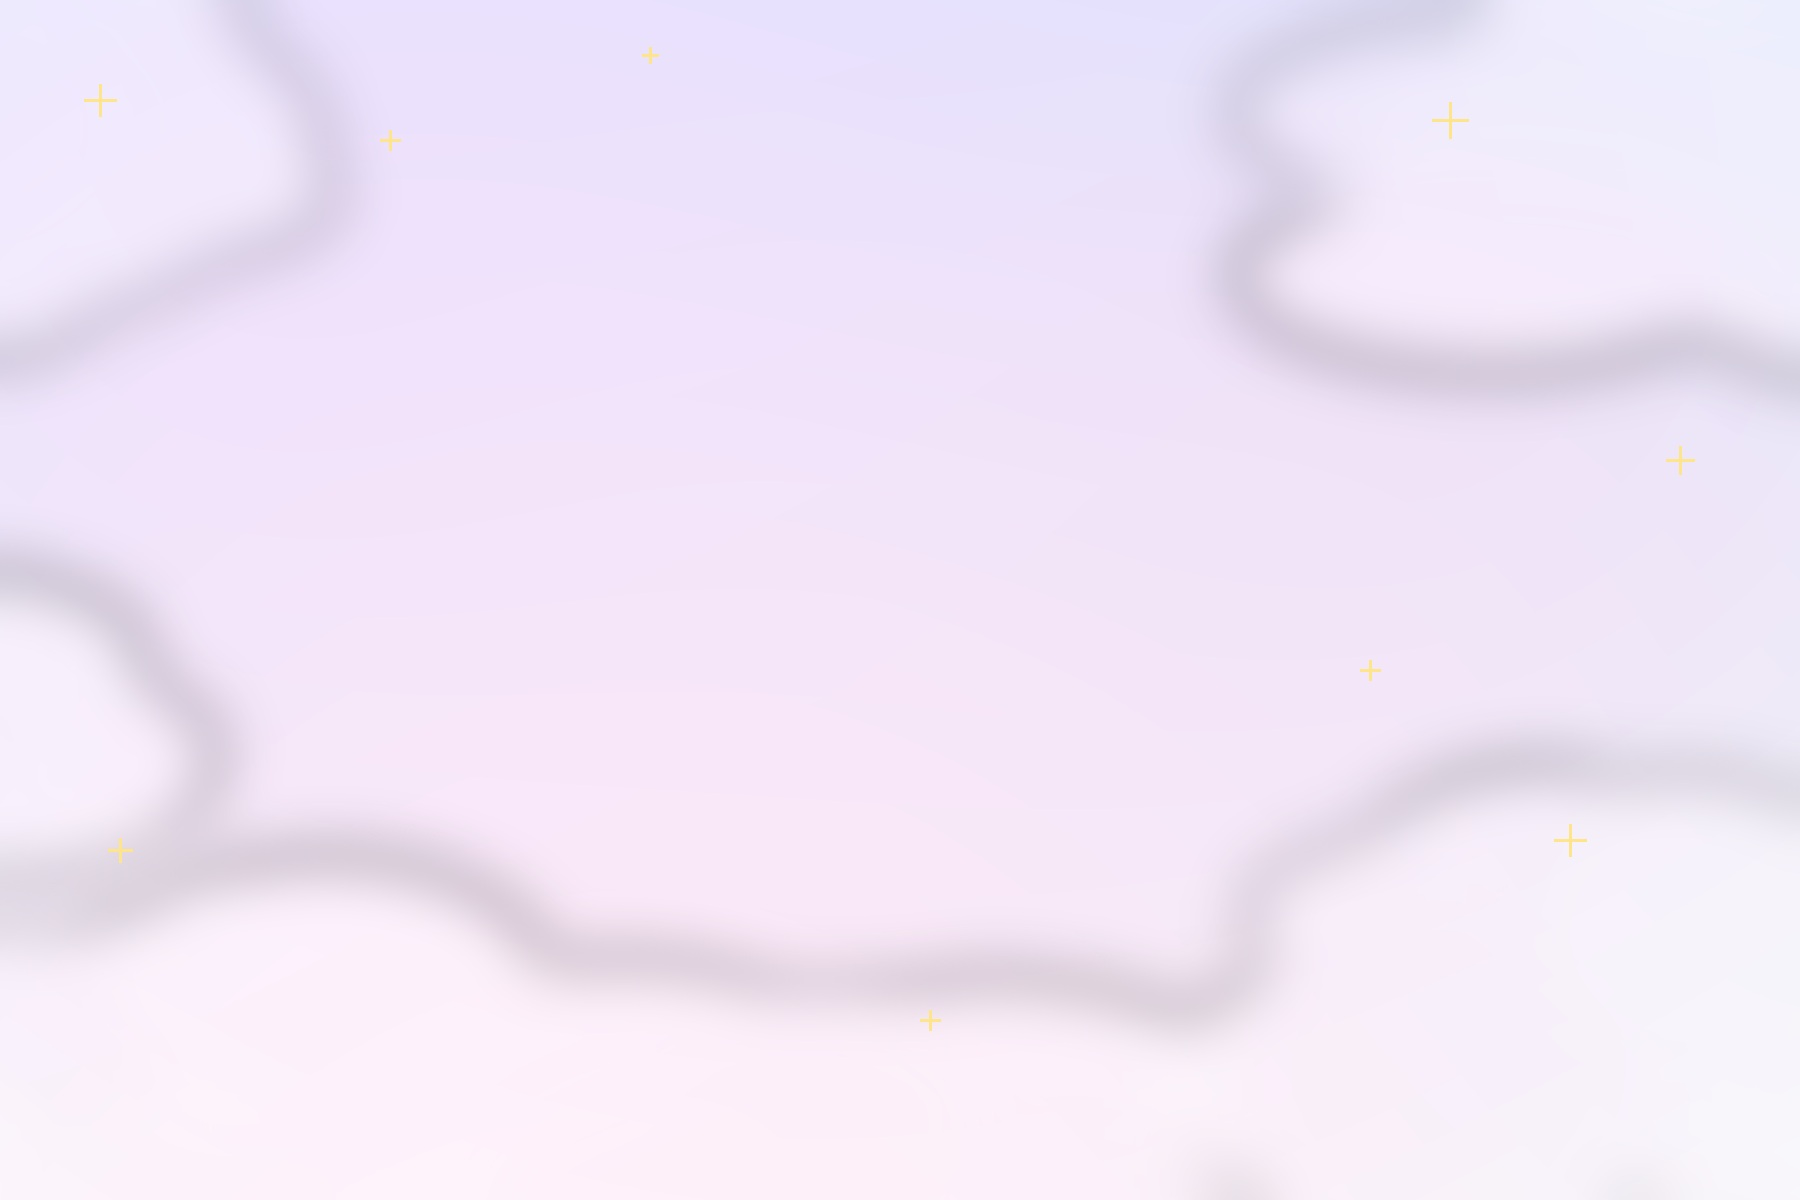
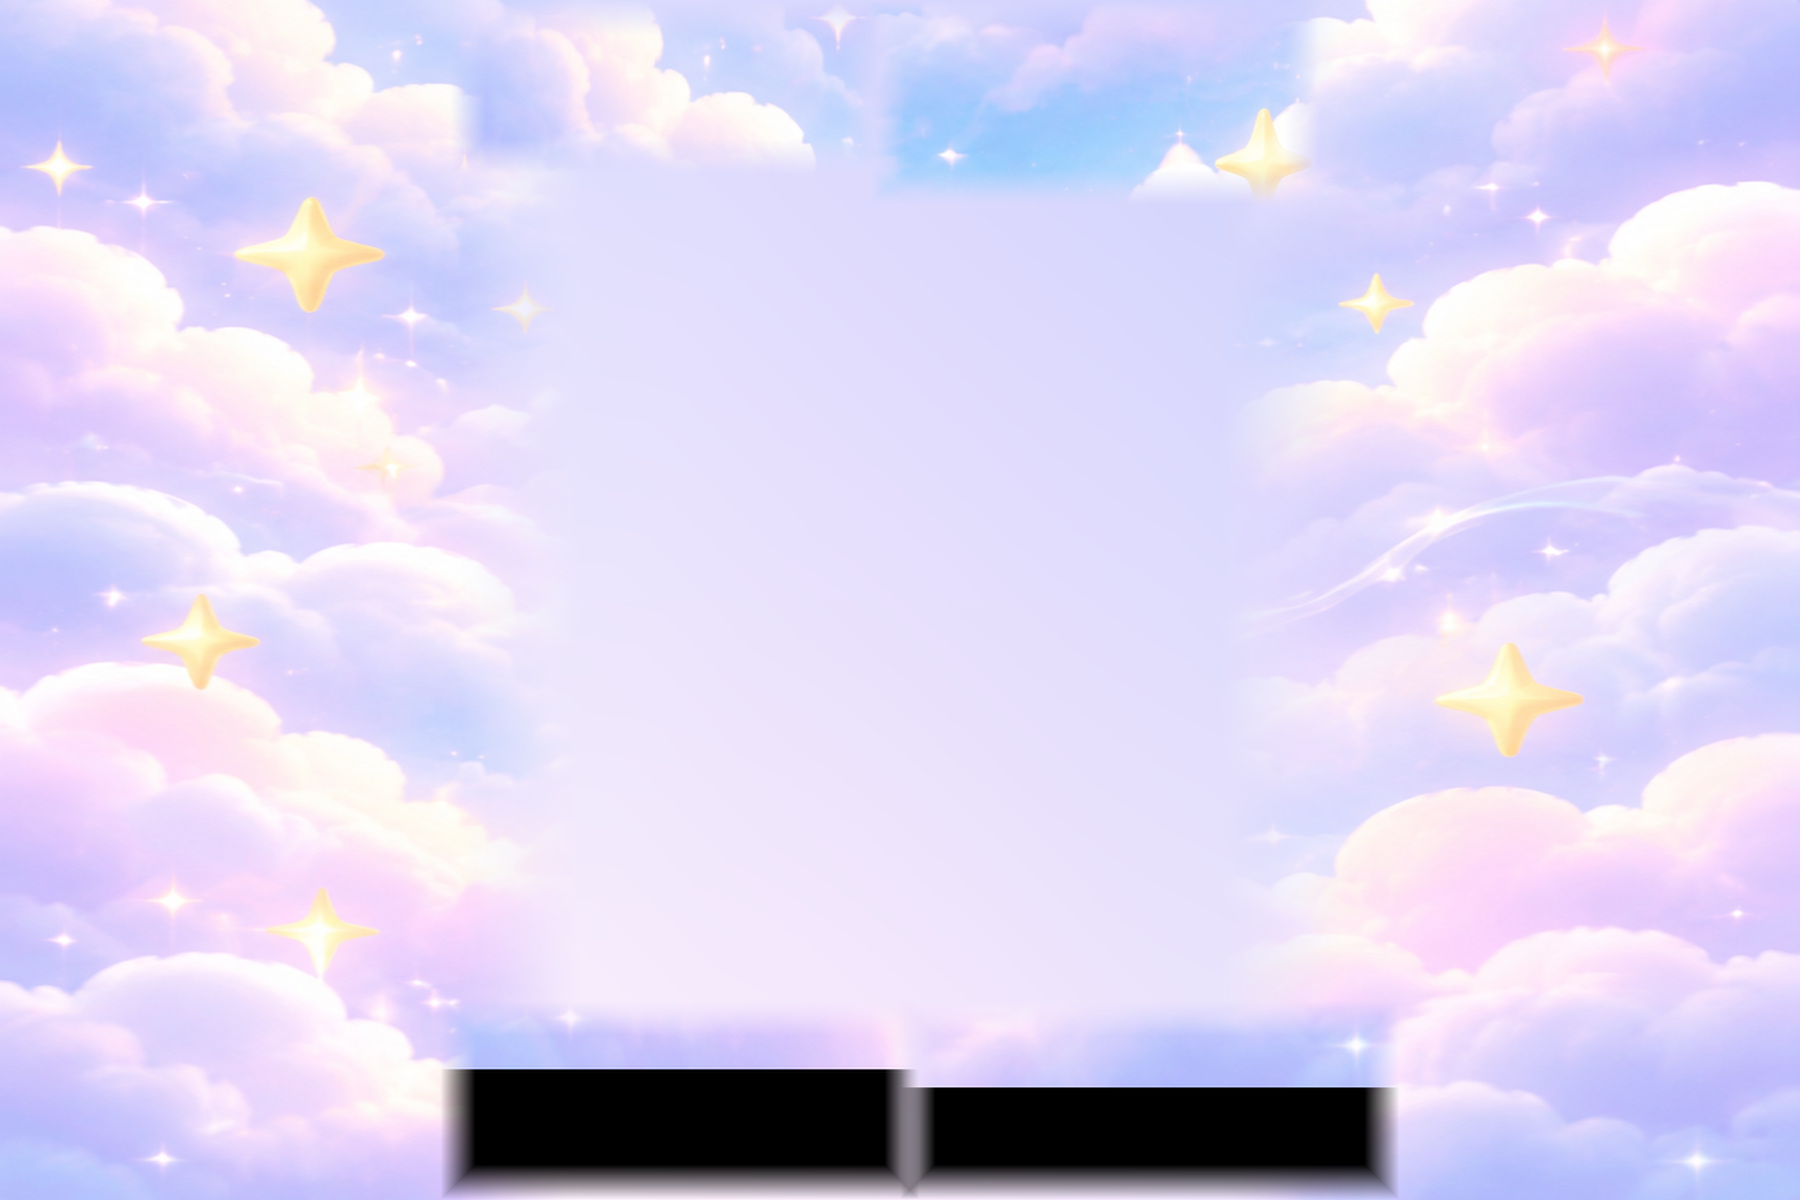
Add files via upload

diff --git a/app.py b/app.py
@@ -49,7 +49,7 @@ CSS = """
 <style>
 .stApp {
  background-image:url("__BG_CLOUDS__");
- background-position:center top;
+ background-position:center center;
  background-size:cover;
  background-attachment:fixed;
  background-repeat:no-repeat;

diff --git a/README.md b/README.md
@@ -1,5 +1,2 @@
-망상회로 2.0 — 깨끗한 전체 배경 수정본
-
-배경 이미지에는 UI 글자나 기존 스크린샷을 사용하지 않았습니다. 캐릭터는 투명 PNG입니다.
-
-실행: pip install -r requirements.txt 후 streamlit run app.py
+망상회로 2.0: 기존 기능/캐릭터/레이아웃 유지, 배경만 더 선명한 구름 이미지로 교체.
+실행: pip install -r requirements.txt && streamlit run app.py
